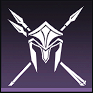
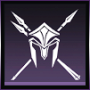
Update doctrine, weapon, units images

diff --git a/src/assets/doctrines.ts b/src/assets/doctrines.ts
@@ -1712,7 +1712,7 @@ export const rareDoctrines: Doctrine[] = [
   },
   {
     name: "Ronin Tactical Doctrine",
-    img: "/logo.png",
+    img: "/ronins.png",
     forUnit: ["Ronin"],
     dedicated: "unit",
     stats: "Iaido Strike can damage an additional target.",
@@ -1726,7 +1726,7 @@ export const rareDoctrines: Doctrine[] = [
   },
   {
     name: "Schutzdieners Support Doctrine",
-    img: "/logo.png",
+    img: "/schutzdieners.png",
     forUnit: ["Schutzdieners"],
     dedicated: "unit",
     stats:

diff --git a/src/assets/weapons.ts b/src/assets/weapons.ts
@@ -73,6 +73,6 @@ export const weapons: Weapon[] = [
   {
     id: 14,
     name: "Spear and Shield",
-    src: "/weapons/New_class.png",
+    src: "/weapons/New_class.webp",
   },
 ];
